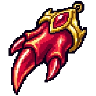
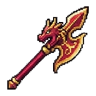
Give every relic a unique pixel sprite and distinct Vietnamese name + lore (56 total)

diff --git a/relics_missions.py b/relics_missions.py
@@ -31,115 +31,116 @@ _ICON_BY_ANIM = {
 RELIC_CATALOG = [
     # --- 6 CLASSIC CORE RELICS (Rebalanced into Rare & Epic Tiers) ---
     {
-        "id": "crimson_claw", "name": "Vuốt Rồng Đỏ", "en_name": "Crimson Dragon Claw",
-        "tier": "Rare", "icon": _ICON_BY_ANIM["claw"], "anim": "claw", "hue": 0, "color": "#ef4444",
-        "stat_label": "+18% ATK cho toàn đội", "desc": "Mỗi đòn đánh tỏa hỏa khí, tăng mạnh sức công phá của Pokémon.",
+        "id": "crimson_claw", "name": "Đại Kích Rồng Đỏ", "en_name": "Crimson Dragon Halberd",
+        "tier": "Rare", "icon": "/static/assets/relics/crimson_claw.png", "anim": "claw", "hue": 0, "color": "#ef4444",
+        "stat_label": "+18% ATK cho toàn đội", "desc": "Thanh kích khổng lồ hình đầu rồng đỏ rực bùng cháy, nâng sức tấn công vượt trội.",
         "price": 1150, "bonuses": {"atk_mult": 0.18},
     },
     {
-        "id": "aegis_shield", "name": "Khiên Pha Lê Aegis", "en_name": "Aegis Prism Shield",
-        "tier": "Rare", "icon": _ICON_BY_ANIM["shield"], "anim": "shield", "hue": 0, "color": "#38bdf8",
-        "stat_label": "+20% DEF cho toàn đội", "desc": "Kết giới pha lê xoay quanh giảm sát thương gánh chịu.",
+        "id": "aegis_shield", "name": "Khiên Hắc Ngọc Aegis", "en_name": "Aegis Obsidian Shield",
+        "tier": "Rare", "icon": "/static/assets/relics/aegis_shield.png", "anim": "shield", "hue": 0, "color": "#a855f7",
+        "stat_label": "+20% DEF cho toàn đội", "desc": "Khiên lục giác hắc sắt gắn ngọc tím huyền bí, hấp thụ sát thương xuất sắc.",
         "price": 1150, "bonuses": {"def_mult": 0.20},
     },
     {
-        "id": "zephyr_wing", "name": "Cánh Sấm Gió", "en_name": "Zephyr Thunder Wing",
-        "tier": "Rare", "icon": _ICON_BY_ANIM["wing"], "anim": "wing", "hue": 0, "color": "#22c55e",
-        "stat_label": "+22% SPD ra đòn trước", "desc": "Luồng điện gió nâng tốc độ phản xạ giúp Pokémon đánh trước đối thủ.",
+        "id": "zephyr_wing", "name": "Quạt Phong Bão Lôi", "en_name": "Zephyr Storm Fan",
+        "tier": "Rare", "icon": "/static/assets/relics/zephyr_wing.png", "anim": "wing", "hue": 0, "color": "#38bdf8",
+        "stat_label": "+22% SPD ra đòn trước", "desc": "Quạt chiến lông vũ xanh mã não cuốn vào cơn bão tốc độ ánh sáng.",
         "price": 1250, "bonuses": {"spd_mult": 0.22},
     },
     {
-        "id": "vital_heart", "name": "Ngọc Sinh Mệnh", "en_name": "Ancient Vital Orb",
-        "tier": "Rare", "icon": _ICON_BY_ANIM["heart"], "anim": "heart", "hue": 0, "color": "#f43f5e",
-        "stat_label": "+20% Max HP bền bỉ", "desc": "Nhịp đập sinh lực vĩnh cửu gia tăng máu tối đa cho cả đội.",
+        "id": "vital_heart", "name": "Ngọc Sinh Mệnh Đỏ Thẫm", "en_name": "Ruby Vital Heart",
+        "tier": "Rare", "icon": "/static/assets/relics/vital_heart.png", "anim": "heart", "hue": 0, "color": "#f43f5e",
+        "stat_label": "+20% Max HP bền bỉ", "desc": "Hồng ngọc hình trái tim tinh khiết trao thêm nguồn sinh lực dồi dào cho cả đội.",
         "price": 1200, "bonuses": {"hp_mult": 0.20},
     },
     {
-        "id": "lucky_charm", "name": "Chuông Vàng May Mắn", "en_name": "Golden Lucky Charm",
-        "tier": "Epic", "icon": _ICON_BY_ANIM["charm"], "anim": "charm", "hue": 0, "color": "#fbbf24",
-        "stat_label": "+35% PokéCoins & +15% Bắt", "desc": "Tiếng chuông chiêu tài và tăng tỷ lệ thu phục Pokémon hoang dã.",
+        "id": "lucky_charm", "name": "Tro Thánh Phượng Hoàng", "en_name": "Sacred Phoenix Urn",
+        "tier": "Epic", "icon": "/static/assets/relics/lucky_charm.png", "anim": "charm", "hue": 0, "color": "#fbbf24",
+        "stat_label": "+35% PokéCoins & +15% Bắt", "desc": "Bình vàng chứa tàn tro phượng hoàng thiêng liêng, thu hút vận may và Pokémon hiếm.",
         "price": 2500, "bonuses": {"coin_mult": 0.35, "catch_bonus": 0.15},
     },
     {
-        "id": "star_crown", "name": "Vương Miện Tinh Tú", "en_name": "Astral Star Crown",
-        "tier": "Epic", "icon": _ICON_BY_ANIM["crown"], "anim": "crown", "hue": 0, "color": "#c084fc",
-        "stat_label": "+30% XP & ×2 Tỉ lệ Shiny", "desc": "Ánh sao hoàng gia giúp Trainer thăng cấp nhanh và thu hút Shiny.",
+        "id": "star_crown", "name": "Bánh Xe Khởi Nguyên", "en_name": "Genesis Wheel Relic",
+        "tier": "Epic", "icon": "/static/assets/relics/star_crown.png", "anim": "crown", "hue": 0, "color": "#c084fc",
+        "stat_label": "+30% XP & ×2 Tỉ lệ Shiny", "desc": "Bánh xe bốn cánh thiêng liêng khắc ngọc bích xanh giúp Trainer thăng tiến và hút Shiny.",
         "price": 2900, "bonuses": {"xp_mult": 0.30, "shiny_mult": 1.0},
     },
 ]
 
 # +50 NEW TIERED RELICS (Common=16, Uncommon=13, Rare=+7=11, Epic=+6=8, Legendary=5, Mythic=3 -> Total 56 Relics!)
+# Each has its own bespoke pixel sprite (/static/assets/relics/<id>.png), distinct name, and flavor lore!
 _EXTRA_RELIC_SPECS = [
-    # Common (16) - Low price 180..320, +5%..+9% starter buffs
-    ("c_wood_fang", "Nanh Gỗ Rừng", "Common", "claw", 95, "#84cc16", "+6% ATK", 180, {"atk_mult": 0.06}),
-    ("c_pebble_buckler", "Khiên Đá Cuội", "Common", "shield", 160, "#94a3b8", "+7% DEF", 180, {"def_mult": 0.07}),
-    ("c_leaf_feather", "Lông Chim Xanh", "Common", "wing", 30, "#4ade80", "+7% SPD", 190, {"spd_mult": 0.07}),
-    ("c_berry_core", "Hạt Mầm Sinh Lực", "Common", "heart", 110, "#22c55e", "+7% Max HP", 190, {"hp_mult": 0.07}),
-    ("c_copper_bell", "Chuông Đồng Nhỏ", "Common", "charm", -25, "#d97706", "+12% Coins", 220, {"coin_mult": 0.12}),
-    ("c_tin_tiara", "Mũ Sắt Tập Sự", "Common", "crown", 170, "#cbd5e1", "+12% XP", 220, {"xp_mult": 0.12}),
-    ("c_spark_talon", "Móng Tia Chớp", "Common", "claw", 55, "#facc15", "+8% ATK", 250, {"atk_mult": 0.08}),
-    ("c_moss_shell", "Giáp Rêu Phong", "Common", "shield", 270, "#10b981", "+9% DEF", 260, {"def_mult": 0.09}),
-    ("c_breeze_plume", "Cánh Gió Nhẹ", "Common", "wing", 70, "#38bdf8", "+9% SPD", 260, {"spd_mult": 0.09}),
-    ("c_amber_seed", "Nhựa Hổ Phách", "Common", "heart", 40, "#f59e0b", "+9% Max HP", 260, {"hp_mult": 0.09}),
-    ("c_snare_charm", "Bùa Săn Bắt Sơ Cấp", "Common", "charm", 155, "#2dd4bf", "+6% Tỉ lệ Bắt", 280, {"catch_bonus": 0.06}),
-    ("c_rust_spur", "Cựa Đồng Rỉ", "Common", "claw", 25, "#fb923c", "+5% ATK · +4% SPD", 270, {"atk_mult": 0.05, "spd_mult": 0.04}),
-    ("c_clay_ward", "Mảnh Gốm Hộ Thân", "Common", "shield", 200, "#a8a29e", "+5% DEF · +5% HP", 270, {"def_mult": 0.05, "hp_mult": 0.05}),
-    ("c_dawn_ribbon", "Dải Lụa Bình Minh", "Common", "charm", 210, "#f472b6", "+10% XP · +8% Coins", 300, {"xp_mult": 0.10, "coin_mult": 0.08}),
-    ("c_mint_crest", "Huy Hiệu Bạc Hà", "Common", "crown", 125, "#34d399", "+6% HP · +5% DEF", 290, {"hp_mult": 0.06, "def_mult": 0.05}),
-    ("c_lucky_penny", "Đồng Xu Cổ", "Common", "charm", 15, "#eab308", "+16% PokéCoins", 320, {"coin_mult": 0.16}),
-    # Uncommon (13) - Moderate price 450..760, +10%..+15% buffs
-    ("u_iron_claw", "Vuốt Thép Rèn", "Uncommon", "claw", 215, "#60a5fa", "+12% ATK", 460, {"atk_mult": 0.12}),
-    ("u_coral_barrier", "Khiên San Hô", "Uncommon", "shield", 310, "#fb7185", "+14% DEF", 480, {"def_mult": 0.14}),
-    ("u_swift_pinion", "Cánh Bạc Xé Gió", "Uncommon", "wing", 185, "#67e8f9", "+14% SPD", 490, {"spd_mult": 0.14}),
-    ("u_crimson_core", "Tim Pha Lê Đỏ", "Uncommon", "heart", -15, "#ef4444", "+14% Max HP", 490, {"hp_mult": 0.14}),
-    ("u_hunter_amulet", "Bùa Thợ Săn", "Uncommon", "charm", 95, "#4ade80", "+12% Bắt Pokémon", 550, {"catch_bonus": 0.12}),
-    ("u_scholar_circlet", "Vòng Tri Thức", "Uncommon", "crown", 210, "#38bdf8", "+22% Trainer XP", 560, {"xp_mult": 0.22}),
-    ("u_merchant_bell", "Chuông Thương Nhân", "Uncommon", "charm", -40, "#fbbf24", "+24% PokéCoins", 580, {"coin_mult": 0.24}),
-    ("u_frost_talon", "Móng Băng Giá", "Uncommon", "claw", 185, "#93c5fd", "+9% ATK · +7% SPD", 620, {"atk_mult": 0.09, "spd_mult": 0.07}),
-    ("u_granite_plate", "Giáp Hoa Cương", "Uncommon", "shield", 45, "#facc15", "+10% DEF · +8% HP", 640, {"def_mult": 0.10, "hp_mult": 0.08}),
-    ("u_gale_crest", "Phong Ấn Lốc Xoáy", "Uncommon", "wing", 240, "#818cf8", "+10% SPD · +8% ATK", 660, {"spd_mult": 0.10, "atk_mult": 0.08}),
-    ("u_glitter_pendant", "Mặt Dây Ánh Kim", "Uncommon", "crown", 60, "#fde047", "+40% Tỉ lệ Shiny", 720, {"shiny_mult": 0.40}),
-    ("u_vigor_vessel", "Bình Sinh Khí", "Uncommon", "heart", 265, "#c084fc", "+11% HP · +8% DEF", 680, {"hp_mult": 0.11, "def_mult": 0.08}),
-    ("u_safari_totem", "Vật Tổ Safari", "Uncommon", "charm", 130, "#22c55e", "+10% Bắt · +14% Coins", 750, {"catch_bonus": 0.10, "coin_mult": 0.14}),
-    # Rare (+7 -> total 11) - Mid-high price 1050..1650
-    ("r_abyssal_fang", "Nanh Vực Thẳm", "Rare", "claw", 265, "#a855f7", "+15% ATK · +10% SPD", 1300, {"atk_mult": 0.15, "spd_mult": 0.10}),
-    ("r_obsidian_aegis", "Khiên Hắc Diện Thạch", "Rare", "shield", 295, "#94a3b8", "+16% DEF · +12% HP", 1350, {"def_mult": 0.16, "hp_mult": 0.12}),
-    ("r_tempest_wing", "Cánh Cuồng Phong", "Rare", "wing", 155, "#2dd4bf", "+18% SPD · +10% ATK", 1400, {"spd_mult": 0.18, "atk_mult": 0.10}),
-    ("r_phoenix_heart", "Trái Tim Phượng Hoàng", "Rare", "heart", 35, "#fb923c", "+18% HP · +10% ATK", 1450, {"hp_mult": 0.18, "atk_mult": 0.10}),
-    ("r_master_lure", "Chuông Thu Phục Bậc Thầy", "Rare", "charm", 290, "#c084fc", "+18% Bắt · +20% Shiny", 1500, {"catch_bonus": 0.18, "shiny_mult": 0.20}),
-    ("r_treasure_scepter", "Ấn Kho Báu Cổ", "Rare", "crown", 45, "#fbbf24", "+30% Coins · +20% XP", 1550, {"coin_mult": 0.30, "xp_mult": 0.20}),
-    ("r_venom_spurs", "Móng Độc Hoàng Gia", "Rare", "claw", 120, "#22c55e", "+16% ATK · +12% DEF", 1420, {"atk_mult": 0.16, "def_mult": 0.12}),
-    # Epic (+6 -> total 8) - High price 2400..3600
-    ("e_dragonlord_claw", "Trảo Long Vương", "Epic", "claw", 320, "#f43f5e", "+24% ATK · +15% SPD", 2800, {"atk_mult": 0.24, "spd_mult": 0.15}),
-    ("e_diamond_bastion", "Pháo Đài Kim Cương", "Epic", "shield", 190, "#67e8f9", "+25% DEF · +18% HP", 2900, {"def_mult": 0.25, "hp_mult": 0.18}),
-    ("e_thunderbird_pinion", "Cánh Lôi Thần", "Epic", "wing", 50, "#facc15", "+26% SPD · +16% ATK", 3000, {"spd_mult": 0.26, "atk_mult": 0.16}),
-    ("e_immortal_ruby", "Hồng Ngọc Bất Tử", "Epic", "heart", 340, "#fb7185", "+26% HP · +18% DEF", 3100, {"hp_mult": 0.26, "def_mult": 0.18}),
-    ("e_prism_lantern", "Lồng Đèn Ánh Sáng", "Epic", "charm", 240, "#f472b6", "+20% Bắt · ×2.2 Shiny", 3300, {"catch_bonus": 0.20, "shiny_mult": 1.2}),
-    ("e_royal_vault", "Vương Ấn Hoàng Kim", "Epic", "crown", 30, "#f59e0b", "+45% Coins · +35% XP", 3600, {"coin_mult": 0.45, "xp_mult": 0.35}),
-    # Legendary (5) - Expensive grind trophies 5500..8000, Drop rate 1.2%!
-    ("l_rayquaza_talon", "Thiên Long Trảo (Rayquaza)", "Legendary", "claw", 110, "#10b981", "+32% ATK · +22% SPD · +12% HP", 6200, {"atk_mult": 0.32, "spd_mult": 0.22, "hp_mult": 0.12}),
-    ("l_regigigas_aegis", "Thánh Khiên Thái Cổ", "Legendary", "shield", 35, "#fbbf24", "+34% DEF · +28% HP · +10% ATK", 6400, {"def_mult": 0.34, "hp_mult": 0.28, "atk_mult": 0.10}),
-    ("l_zapdos_tempest", "Cánh Lôi Đế Tối Thượng", "Legendary", "wing", 40, "#facc15", "+35% SPD · +24% ATK · +15% XP", 6800, {"spd_mult": 0.35, "atk_mult": 0.24, "xp_mult": 0.15}),
-    ("l_mewtwo_mind_orb", "Tâm Ngọc Mewtwo", "Legendary", "heart", 280, "#c084fc", "+30% ATK · +30% HP · +20% DEF", 7400, {"atk_mult": 0.30, "hp_mult": 0.30, "def_mult": 0.20}),
-    ("l_hooh_sacred_bell", "Chuông Thánh Ho-Oh", "Legendary", "charm", 350, "#f97316", "+28% Bắt · +60% Coins · ×2.5 Shiny", 7900, {"catch_bonus": 0.28, "coin_mult": 0.60, "shiny_mult": 1.5}),
-    # Mythic (3) - Pinnacle endgame Relics 11500..15000, Drop rate 0.3%!
-    ("m_arceus_crown", "Thánh Quán Arceus (Creation)", "Mythic", "crown", 48, "#fde047", "+42% ATK/DEF/SPD/HP · +40% XP", 14500, {"atk_mult": 0.42, "def_mult": 0.42, "spd_mult": 0.42, "hp_mult": 0.42, "xp_mult": 0.40}),
-    ("m_eternatus_core", "Lõi Vô Cực Eternatus", "Mythic", "heart", 295, "#e879f9", "+48% ATK · +45% HP · +35% SPD", 12500, {"atk_mult": 0.48, "hp_mult": 0.45, "spd_mult": 0.35}),
-    ("m_mew_genesis_bell", "Khải Huyền Chuông Mew", "Mythic", "charm", 315, "#f472b6", "+35% Bắt · +80% Coins · ×3.5 Shiny · +25% All", 13500, {"catch_bonus": 0.35, "coin_mult": 0.80, "shiny_mult": 2.5, "atk_mult": 0.25, "spd_mult": 0.25}),
+    # Common (16) - Affordable starter relics 180..320 Coins
+    ("c_wood_fang", "Răng Nanh Sói Hoang", "Common", "claw", "#e2e8f0", "+6% ATK", 180, {"atk_mult": 0.06}, "Chiếc răng nanh thú hoang buộc dây da giúp tăng sức cắn xé đầu trận."),
+    ("c_pebble_buckler", "Đá Tảng Cổ Ngữ", "Common", "shield", "#38bdf8", "+7% DEF", 180, {"def_mult": 0.07}, "Phiến đá khắc cổ ngữ phát sáng nhẹ bảo vệ Pokémon trước đòn đánh."),
+    ("c_leaf_feather", "Lông Vũ Gió Nam", "Common", "wing", "#4ade80", "+7% SPD", 190, {"spd_mult": 0.07}, "Chiếc lông vũ xanh biếc nâng bước chạy giúp đội ra chiêu nhanh hơn."),
+    ("c_berry_core", "Quả Dại Rừng Xanh", "Common", "heart", "#6366f1", "+7% Max HP", 190, {"hp_mult": 0.07}, "Trái mọng rừng thiêng mọng nước bổ sung sinh lực bền bỉ cho cả đội."),
+    ("c_copper_bell", "La Bàn Đồng Thau", "Common", "charm", "#f59e0b", "+12% Coins", 220, {"coin_mult": 0.12}, "La bàn cổ của nhà thám hiểm dẫn lối tới những túi vàng rơi nhiều hơn."),
+    ("c_tin_tiara", "Băng Đô Chiến Binh", "Common", "crown", "#ef4444", "+12% XP", 220, {"xp_mult": 0.12}, "Khăn buộc trán võ sĩ thúc đẩy tinh thần tập luyện để lên cấp nhanh."),
+    ("c_spark_talon", "Bình Tích Điện Mini", "Common", "claw", "#facc15", "+8% ATK", 250, {"atk_mult": 0.08}, "Lọ thủy tinh nhốt tia sét nhỏ bùng nổ sát thương khi tấn công."),
+    ("c_moss_shell", "Mai Rùa Rêu Phong", "Common", "shield", "#22c55e", "+9% DEF", 260, {"def_mult": 0.09}, "Lớp mai rùa phủ rêu dày cứng cáp hấp thụ bớt xung lực va chạm."),
+    ("c_breeze_plume", "Giày Da Gió Nhẹ", "Common", "wing", "#38bdf8", "+9% SPD", 260, {"spd_mult": 0.09}, "Đôi ủng da gắn cánh thiên sứ giúp Pokémon lướt đi nhẹ như gió."),
+    ("c_amber_seed", "Hổ Phách Côn Trùng", "Common", "heart", "#f59e0b", "+9% Max HP", 260, {"hp_mult": 0.09}, "Khối nhựa hổ phách cổ đại giữ nguyên nguồn sinh khí ngàn năm."),
+    ("c_snare_charm", "Lưới Bắt Ánh Bạc", "Common", "charm", "#2dd4bf", "+6% Tỉ lệ Bắt", 280, {"catch_bonus": 0.06}, "Cuộn lưới dệt từ tơ bạc giúp giữ chân Pokémon hoang dã dễ dàng hơn."),
+    ("c_rust_spur", "Dao Găm Sắt Rèn", "Common", "claw", "#94a3b8", "+5% ATK · +4% SPD", 270, {"atk_mult": 0.05, "spd_mult": 0.04}, "Con dao găm nhẹ tay giúp chớp thời cơ tung đòn phản công chớp nhoáng."),
+    ("c_clay_ward", "Bình Gốm Hộ Mệnh", "Common", "shield", "#fb923c", "+5% DEF · +5% HP", 270, {"def_mult": 0.05, "hp_mult": 0.05}, "Hũ gốm phong ấn bùa bình an che chở toàn đội khỏi đòn chí mạng."),
+    ("c_dawn_ribbon", "Khăn Choàng Bình Minh", "Common", "charm", "#fb7185", "+10% XP · +8% Coins", 300, {"xp_mult": 0.10, "coin_mult": 0.08}, "Dải khăn lụa ánh hồng mang lại may mắn trên mọi nẻo đường phiêu lưu."),
+    ("c_mint_crest", "Trâm Lá Bạc Hà", "Common", "crown", "#34d399", "+6% HP · +5% DEF", 290, {"hp_mult": 0.06, "def_mult": 0.05}, "Trâm cài bạc chạm hình lá bạc hà giúp hồi phục thể lực nhẹ nhàng."),
+    ("c_lucky_penny", "Túi Vàng Thám Hiểm", "Common", "charm", "#eab308", "+16% PokéCoins", 320, {"coin_mult": 0.16}, "Túi da đầy ắp đồng vàng lấp lánh giúp tăng phần thưởng sau mỗi trận."),
+    # Uncommon (13) - Moderate price 460..750 Coins
+    ("u_iron_claw", "Kiếm Bạc Thợ Rèn", "Uncommon", "claw", "#60a5fa", "+12% ATK", 460, {"atk_mult": 0.12}, "Thanh đoản kiếm bạc sắc lẹm được rèn kỹ lưỡng tăng mạnh sát thương."),
+    ("u_coral_barrier", "Vòng San Hô Biển Sâu", "Uncommon", "shield", "#fb7185", "+14% DEF", 480, {"def_mult": 0.14}, "Vòng đeo làm từ san hô hóa thạch cực kỳ cứng rắn trước sóng gió."),
+    ("u_swift_pinion", "Phi Tiêu Phong Ấn", "Uncommon", "wing", "#38bdf8", "+14% SPD", 490, {"spd_mult": 0.14}, "Phi tiêu bốn cánh khắc trận gió xoay vòng giúp tăng tốc ra đòn."),
+    ("u_crimson_core", "Chén Thánh Máu Đỏ", "Uncommon", "heart", "#ef4444", "+14% Max HP", 490, {"hp_mult": 0.14}, "Chén bạc chứa linh dịch đỏ rực tiếp thêm sức sống mãnh liệt."),
+    ("u_hunter_amulet", "Ống Nhòm Thợ Săn", "Uncommon", "charm", "#4ade80", "+12% Bắt Pokémon", 550, {"catch_bonus": 0.12}, "Ống nhòm đồng thau bắt trọn điểm yếu của Pokémon hoang khi ném bóng."),
+    ("u_scholar_circlet", "Sách Cổ Tri Thức", "Uncommon", "crown", "#d97706", "+22% Trainer XP", 560, {"xp_mult": 0.22}, "Cuốn ma đạo thư ghi chép bí kíp huấn luyện giúp Trainer lên cấp vèo vèo."),
+    ("u_merchant_bell", "Cân Vàng Thương Nhân", "Uncommon", "charm", "#fbbf24", "+24% PokéCoins", 580, {"coin_mult": 0.24}, "Chiếc cân vàng tinh xảo giúp thương lượng tối đa chiến lợi phẩm trận đấu."),
+    ("u_frost_talon", "Mảnh Băng Vĩnh Cửu", "Uncommon", "claw", "#93c5fd", "+9% ATK · +7% SPD", 620, {"atk_mult": 0.09, "spd_mult": 0.07}, "Mảnh băng không tan tỏa hàn khí cắt ngọt xuyên giáp đối thủ."),
+    ("u_granite_plate", "Giáp Vai Nham Thạch", "Uncommon", "shield", "#fb923c", "+10% DEF · +8% HP", 640, {"def_mult": 0.10, "hp_mult": 0.08}, "Bản giáp sắt nung magma rực cháy bảo vệ vững chãi như pháo đài."),
+    ("u_gale_crest", "Sáo Gọi Gió Lốc", "Uncommon", "wing", "#34d399", "+10% SPD · +8% ATK", 660, {"spd_mult": 0.10, "atk_mult": 0.08}, "Ống sáo ngọc ngân vang điệu gió cuốn phăng mọi sự chậm chạp."),
+    ("u_glitter_pendant", "Kính Lúp Sao Băng", "Uncommon", "crown", "#fde047", "+40% Tỉ lệ Shiny", 720, {"shiny_mult": 0.40}, "Chiếc kính vàng lấp lánh ánh sao giúp dễ dàng phát hiện Pokémon Shiny."),
+    ("u_vigor_vessel", "Hồ Lô Linh Khí", "Uncommon", "heart", "#10b981", "+11% HP · +8% DEF", 680, {"hp_mult": 0.11, "def_mult": 0.08}, "Hồ lô ngọc bích tỏa làn sương hồi sinh nuôi dưỡng thể lực toàn đội."),
+    ("u_safari_totem", "Tượng Gỗ Thú Thần", "Uncommon", "charm", "#d97706", "+10% Bắt · +14% Coins", 750, {"catch_bonus": 0.10, "coin_mult": 0.14}, "Mặt nạ gỗ chạm khắc linh thú cổ xưa phù hộ thợ săn vùng Safari."),
+    # Rare (+7 -> total 11) - Mid-high price 1300..1550 Coins
+    ("r_abyssal_fang", "Lưỡi Hái Bóng Đêm", "Rare", "claw", "#a855f7", "+15% ATK · +10% SPD", 1300, {"atk_mult": 0.15, "spd_mult": 0.10}, "Lưỡi hái cong ánh tím cắt xuyên bóng tối với tốc độ đáng sợ."),
+    ("r_obsidian_aegis", "Ngọc Đen Hắc Diện", "Rare", "shield", "#94a3b8", "+16% DEF · +12% HP", 1350, {"def_mult": 0.16, "hp_mult": 0.12}, "Tấm khiên lục giác bằng hắc diện thạch gắn ngọc tím bất khả xâm phạm."),
+    ("r_tempest_wing", "Quạt Ba Tiêu Cuồng Phong", "Rare", "wing", "#38bdf8", "+18% SPD · +10% ATK", 1400, {"spd_mult": 0.18, "atk_mult": 0.10}, "Quạt chiến lông vũ bão tố tạo lốc xoáy đẩy tốc độ đội hình lên cực đại."),
+    ("r_phoenix_heart", "Lông Phượng Hoàng Lửa", "Rare", "heart", "#f97316", "+18% HP · +10% ATK", 1450, {"hp_mult": 0.18, "atk_mult": 0.10}, "Chiếc lông rực lửa bất diệt truyền ngọn lửa hồi sinh vào máu Pokémon."),
+    ("r_master_lure", "Kèn Săn Hoàng Gia", "Rare", "charm", "#c084fc", "+18% Bắt · +20% Shiny", 1500, {"catch_bonus": 0.18, "shiny_mult": 0.20}, "Tiếng tù và vàng vang vọng thu hút cả Pokémon hiếm lẫn Shiny lộ diện."),
+    ("r_treasure_scepter", "Chìa Khóa Kho Báu", "Rare", "crown", "#fbbf24", "+30% Coins · +20% XP", 1550, {"coin_mult": 0.30, "xp_mult": 0.20}, "Chìa khóa nạm ngọc mở ra kho báu ẩn giấu của giới quý tộc Pokémon."),
+    ("r_venom_spurs", "Nỏ Độc Xanh Thẫm", "Rare", "claw", "#22c55e", "+16% ATK · +12% DEF", 1420, {"atk_mult": 0.16, "def_mult": 0.12}, "Cây nỏ cầm tay ngọc lục bảo bắn tên tẩm kịch độc áp đảo kẻ thù."),
+    # Epic (+6 -> total 8) - High price 2800..3600 Coins
+    ("e_dragonlord_claw", "Đại Đao Long Vương", "Epic", "claw", "#f43f5e", "+24% ATK · +15% SPD", 2800, {"atk_mult": 0.24, "spd_mult": 0.15}, "Thanh kích đầu rồng đỏ rực gầm vang mỗi lần vung chém xé toạc đội hình địch."),
+    ("e_diamond_bastion", "Mũ Giáp Kim Cương", "Epic", "shield", "#67e8f9", "+25% DEF · +18% HP", 2900, {"def_mult": 0.25, "hp_mult": 0.18}, "Chiếc mũ chiến binh đúc từ kim cương nguyên khối phản xạ mọi sát thương."),
+    ("e_thunderbird_pinion", "Kích Sấm Lôi Thần", "Epic", "wing", "#facc15", "+26% SPD · +16% ATK", 3000, {"spd_mult": 0.26, "atk_mult": 0.16}, "Đinh ba lôi điện phóng thích tốc độ ánh sáng và sức mạnh sấm sét."),
+    ("e_immortal_ruby", "Trái Tim Hồng Ngọc", "Epic", "heart", "#fb7185", "+26% HP · +18% DEF", 3100, {"hp_mult": 0.26, "def_mult": 0.18}, "Hồng ngọc hình tim nạm viền vàng hoàng gia giữ cho sinh lực mãi dồi dào."),
+    ("e_prism_lantern", "Lồng Đèn Bắt Sao", "Epic", "charm", "#f472b6", "+20% Bắt · ×2.2 Shiny", 3300, {"catch_bonus": 0.20, "shiny_mult": 1.2}, "Lồng đèn tỏa ánh cầu vồng cực quang mê hoặc khiến Shiny tự tìm tới."),
+    ("e_royal_vault", "Rương Báu Hoàng Kim", "Epic", "crown", "#f59e0b", "+45% Coins · +35% XP", 3600, {"coin_mult": 0.45, "xp_mult": 0.35}, "Kho báu đầy ắp châu báu hoàng gia nhân bội lượng Coins & EXP thu được."),
+    # Legendary (5) - Expensive grind trophies 6200..7900 Coins, Drop rate 1.2%
+    ("l_rayquaza_talon", "Thiên Long Kích (Rayquaza)", "Legendary", "claw", "#10b981", "+32% ATK · +22% SPD · +12% HP", 6200, {"atk_mult": 0.32, "spd_mult": 0.22, "hp_mult": 0.12}, "Ngọn thương ngọc bích tầng bình lưu thấm đẫm uy áp của Chúa Tể Bầu Trời."),
+    ("l_regigigas_aegis", "Cổ Thạch Thái Sơ", "Legendary", "shield", "#fbbf24", "+34% DEF · +28% HP · +10% ATK", 6400, {"def_mult": 0.34, "hp_mult": 0.28, "atk_mult": 0.10}, "Phiến thạch vàng khắc bảy viên ngọc lục bảo thức tỉnh sức mạnh của Regigigas."),
+    ("l_zapdos_tempest", "Nhẫn Lôi Đế Tối Thượng", "Legendary", "wing", "#facc15", "+35% SPD · +24% ATK · +15% XP", 6800, {"spd_mult": 0.35, "atk_mult": 0.24, "xp_mult": 0.15}, "Chiếc nhẫn vàng rực tia sét vĩnh cửu ban tốc độ tối thượng cho toàn đội."),
+    ("l_mewtwo_mind_orb", "Tâm Cầu Ngoại Cảm (Mewtwo)", "Legendary", "heart", "#c084fc", "+30% ATK · +30% HP · +20% DEF", 7400, {"atk_mult": 0.30, "hp_mult": 0.30, "def_mult": 0.20}, "Quả cầu tâm linh lơ lửng giữa hai vòng bạc khuếch đại sức mạnh siêu năng lực."),
+    ("l_hooh_sacred_bell", "Tro Cốt Thánh Phượng (Ho-Oh)", "Legendary", "charm", "#f97316", "+28% Bắt · +60% Coins · ×2.5 Shiny", 7900, {"catch_bonus": 0.28, "coin_mult": 0.60, "shiny_mult": 1.5}, "Chiếc bình vàng chứa tàn tro cầu vồng linh thiêng của Ho-Oh ban phước lành."),
+    # Mythic (3) - Pinnacle endgame Relics 12500..14500 Coins, Drop rate 0.3%
+    ("m_arceus_crown", "Bánh Xe Sáng Thế (Arceus)", "Mythic", "crown", "#fde047", "+42% ATK/DEF/SPD/HP · +40% XP", 14500, {"atk_mult": 0.42, "def_mult": 0.42, "spd_mult": 0.42, "hp_mult": 0.42, "xp_mult": 0.40}, "Thánh luân vàng ròng biểu tượng của Đấng Sáng Thế, cộng hưởng sức mạnh toàn diện."),
+    ("m_eternatus_core", "Hạt Nhân Vô Cực (Eternatus)", "Mythic", "heart", "#e879f9", "+48% ATK · +45% HP · +35% SPD", 12500, {"atk_mult": 0.48, "hp_mult": 0.45, "spd_mult": 0.35}, "Lò phản ứng năng lượng Dynamax vô tận bùng phát sức hủy diệt tối thượng."),
+    ("m_mew_genesis_bell", "Đồng Hồ Khởi Nguyên (Mew)", "Mythic", "charm", "#f472b6", "+35% Bắt · +80% Coins · ×3.5 Shiny · +25% All", 13500, {"catch_bonus": 0.35, "coin_mult": 0.80, "shiny_mult": 2.5, "atk_mult": 0.25, "spd_mult": 0.25}, "Đồng hồ cát tinh vân mang phép màu khởi nguyên của Mew, thu hút mọi kỳ tích."),
 ]
 
-for _rid, _name, _tier, _anim, _hue, _col, _slabel, _price, _bon in _EXTRA_RELIC_SPECS:
+for _rid, _name, _tier, _anim, _col, _slabel, _price, _bon, _desc in _EXTRA_RELIC_SPECS:
     RELIC_CATALOG.append({
         "id": _rid,
         "name": _name,
         "en_name": _name,
         "tier": _tier,
-        "icon": _ICON_BY_ANIM[_anim],
+        "icon": f"/static/assets/relics/{_rid}.png",
         "anim": _anim,
-        "hue": _hue,
+        "hue": 0,
         "color": _col,
         "stat_label": _slabel,
-        "desc": f"Thánh vật bậc {_tier}: {_slabel}. Rơi hiếm khi đánh quái hoặc mua bằng PokéCoins!",
+        "desc": _desc,
         "price": _price,
         "bonuses": _bon,
     })
